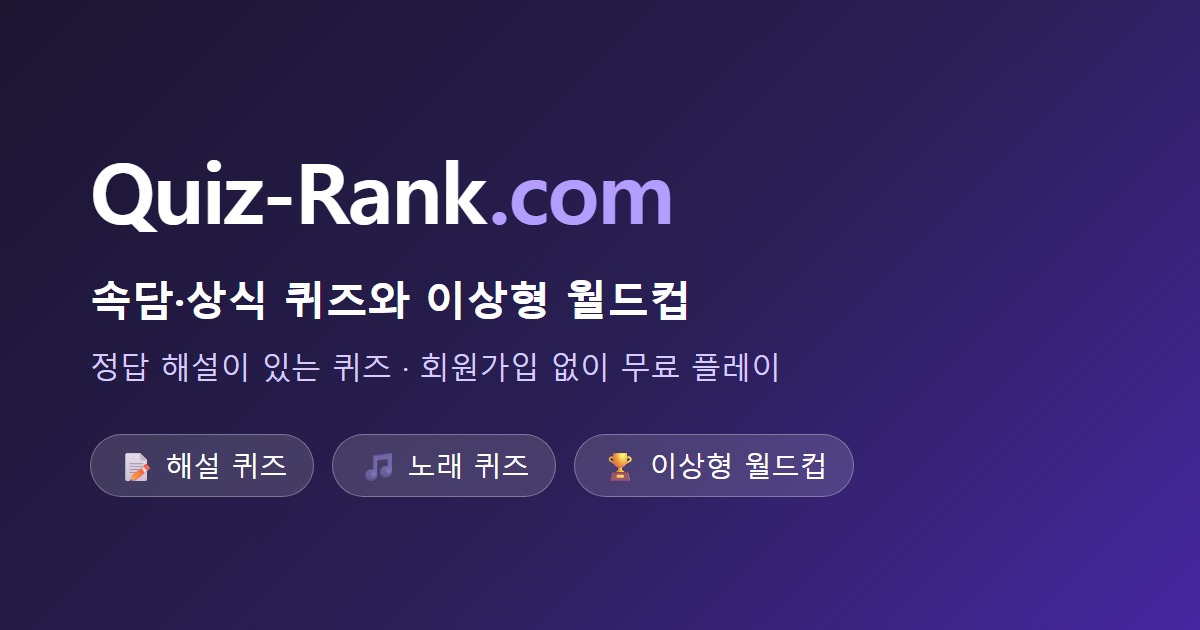
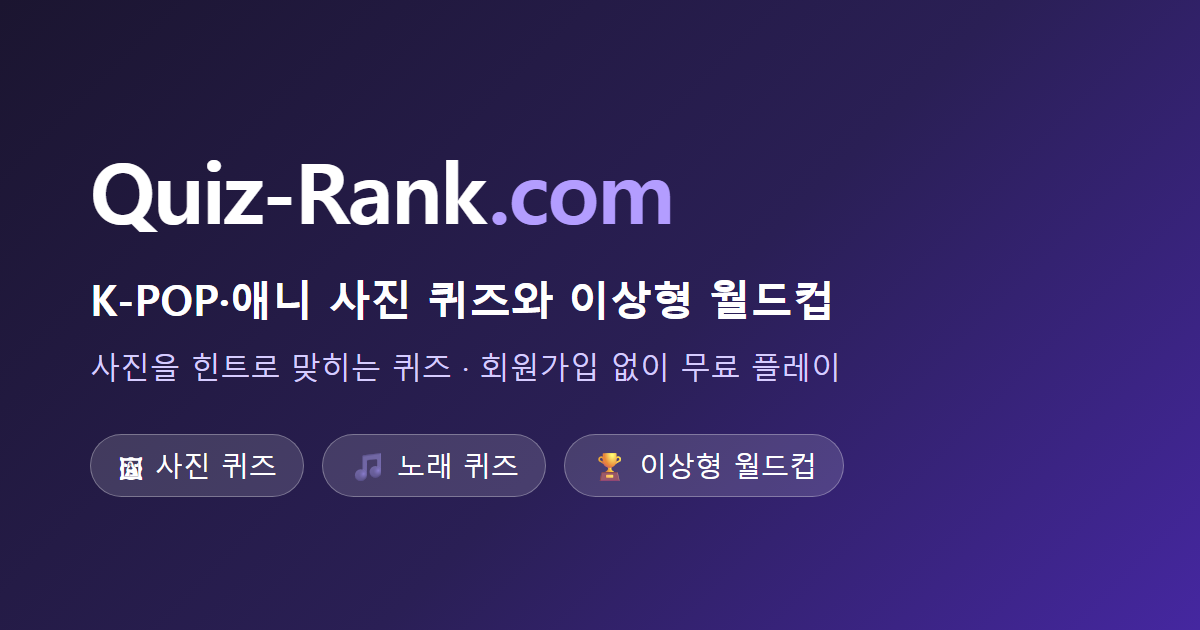
retitle home/about/OG image for current content (K-POP/anime photo quizzes), add image copyright notice and takedown contact

Changed region(s): [[0.0617, 0.4222, 0.7092, 0.5127], [0.0617, 0.5429, 0.7092, 0.6032], [0.0925, 0.6937, 0.7092, 0.7841]]

diff --git a/quiz-platform/index.html b/quiz-platform/index.html
@@ -8,18 +8,18 @@
     <meta property="og:type" content="website">
     <meta property="og:site_name" content="Quiz-Rank.com">
     <meta property="og:locale" content="ko_KR">
-    <meta property="og:title" content="Quiz-Rank.com — 속담·상식 퀴즈와 이상형 월드컵">
+    <meta property="og:title" content="Quiz-Rank.com — K-POP·애니 사진 퀴즈와 이상형 월드컵">
     <meta property="og:image" content="https://quiz-rank.com/og-image.png">
     <meta property="og:image:width" content="1200">
     <meta property="og:image:height" content="630">
     <meta name="twitter:image" content="https://quiz-rank.com/og-image.png">
-    <meta property="og:description" content="속담, 맞춤법, 사자성어, 초성 같은 교양 퀴즈와 이상형 월드컵을 무료로 즐겨 보세요. 문제마다 정답 해설이 있어 놀면서 배울 수 있고, 회원가입 없이 바로 플레이할 수 있습니다.">
+    <meta property="og:description" content="K-POP 아이돌과 애니 캐릭터, 세계 명소와 명화 사진을 힌트로 조금씩 드러내며 맞히는 퀴즈와 이상형 월드컵을 무료로 즐겨 보세요. 속담·맞춤법 같은 해설 퀴즈도 있고, 회원가입 없이 바로 플레이할 수 있습니다.">
     <meta property="og:url" content="https://quiz-rank.com/">
     <meta name="twitter:card" content="summary_large_image">
-    <meta name="twitter:title" content="Quiz-Rank.com — 속담·상식 퀴즈와 이상형 월드컵">
-    <meta name="twitter:description" content="속담, 맞춤법, 사자성어, 초성 같은 교양 퀴즈와 이상형 월드컵을 무료로 즐겨 보세요. 문제마다 정답 해설이 있어 놀면서 배울 수 있고, 회원가입 없이 바로 플레이할 수 있습니다.">
-    <title>Quiz-Rank.com — 속담·상식 퀴즈와 이상형 월드컵</title>
-    <meta name="description" content="속담, 맞춤법, 사자성어, 초성 같은 교양 퀴즈와 이상형 월드컵을 무료로 즐겨 보세요. 문제마다 정답 해설이 있어 놀면서 배울 수 있고, 회원가입 없이 바로 플레이할 수 있습니다.">
+    <meta name="twitter:title" content="Quiz-Rank.com — K-POP·애니 사진 퀴즈와 이상형 월드컵">
+    <meta name="twitter:description" content="K-POP 아이돌과 애니 캐릭터, 세계 명소와 명화 사진을 힌트로 조금씩 드러내며 맞히는 퀴즈와 이상형 월드컵을 무료로 즐겨 보세요. 속담·맞춤법 같은 해설 퀴즈도 있고, 회원가입 없이 바로 플레이할 수 있습니다.">
+    <title>Quiz-Rank.com — K-POP·애니 사진 퀴즈와 이상형 월드컵</title>
+    <meta name="description" content="K-POP 아이돌과 애니 캐릭터, 세계 명소와 명화 사진을 힌트로 조금씩 드러내며 맞히는 퀴즈와 이상형 월드컵을 무료로 즐겨 보세요. 속담·맞춤법 같은 해설 퀴즈도 있고, 회원가입 없이 바로 플레이할 수 있습니다.">
     <link rel="stylesheet" href="style.css?v=20260303_0025">
     <link href="https://fonts.googleapis.com/css2?family=Inter:wght@400;600;800&display=swap" rel="stylesheet">
     <meta name="google-adsense-account" content="ca-pub-7525260897274073">
@@ -34,7 +34,7 @@
     <script src="js/utils/theme.js"></script>
     <script src="js/utils/seo.js"></script>
     <script type="application/ld+json">
-    {"@context":"https://schema.org","@type":"WebSite","name":"Quiz-Rank.com","url":"https://quiz-rank.com/","inLanguage":"ko-KR","description":"속담·상식 퀴즈와 이상형 월드컵을 무료로 즐길 수 있는 서비스"}
+    {"@context":"https://schema.org","@type":"WebSite","name":"Quiz-Rank.com","url":"https://quiz-rank.com/","inLanguage":"ko-KR","description":"K-POP·애니 사진 퀴즈, 노래 퀴즈, 해설 퀴즈와 이상형 월드컵을 무료로 즐길 수 있는 서비스"}
     </script>
 </head>
 

diff --git a/quiz-platform/about.html b/quiz-platform/about.html
@@ -86,11 +86,12 @@
         <div class="page-container">
             <h1>Quiz-Rank.com 서비스 소개</h1>
 
-            <p>Quiz-Rank.com은 누구나 무료로 퀴즈를 풀고 이상형 월드컵을 즐길 수 있는 서비스입니다. 속담이나 맞춤법처럼 알아 두면 쓸모 있는 교양 퀴즈, 노래를 듣고 맞히는 퀴즈, 두 후보 중 하나씩 골라 최고를 가리는 이상형 월드컵을 제공합니다. 회원가입 없이 바로 플레이할 수 있습니다.</p>
+            <p>Quiz-Rank.com은 누구나 무료로 퀴즈를 풀고 이상형 월드컵을 즐길 수 있는 서비스입니다. 사진을 힌트로 조금씩 드러내며 맞히는 K-POP·애니·명소·명화 퀴즈, 노래를 듣고 맞히는 퀴즈, 속담이나 맞춤법처럼 해설이 붙는 교양 퀴즈, 두 후보 중 하나씩 골라 최고를 가리는 이상형 월드컵을 제공합니다. 회원가입 없이 바로 플레이할 수 있습니다.</p>
 
             <h2>어떤 콘텐츠가 있나요?</h2>
             <ul>
                 <li><strong>교양 퀴즈:</strong> 속담 빈칸 채우기, 헷갈리는 맞춤법, 사자성어 뜻 맞추기, 초성 퀴즈, 대한민국 상식 등 글로 읽고 푸는 퀴즈입니다. 문제를 풀 때마다 정답 해설을 함께 보여 드립니다.</li>
+                <li><strong>사진 퀴즈:</strong> 사진을 흐리게, 모자이크로, 일부만 확대해서, 또는 검은 상자로 가려서 보여 주고 무엇인지 맞히는 퀴즈입니다. 힌트를 볼 때마다 사진이 조금씩 드러나고, 힌트를 적게 쓸수록 점수가 높습니다. K-POP 그룹과 멤버, 애니메이션 캐릭터와 포스터, 세계 명소, 명화, 동물 등을 다룹니다.</li>
                 <li><strong>노래·영상 퀴즈:</strong> 짧은 구간을 듣고 곡을 맞히는 퀴즈입니다. 영상은 YouTube 플레이어로 재생되며 영상의 저작권은 원래 게시자에게 있습니다.</li>
                 <li><strong>이상형 월드컵:</strong> 음식, 카페 음료, 애니메이션 캐릭터, 아이돌 등 다양한 주제로 토너먼트를 진행합니다.</li>
             </ul>
@@ -100,6 +101,8 @@
                 <li>교양 퀴즈의 문제, 보기, 해설은 운영자가 직접 작성합니다. 다른 사이트의 문제를 그대로 가져오지 않습니다.</li>
                 <li>새 퀴즈는 공개하기 전에 운영자가 내용을 한 번 더 읽고 확인한 뒤에만 사이트에 올립니다. 정답이 모호하거나 사실과 다르다고 판단되면 공개하지 않습니다.</li>
                 <li>같은 문구가 반복되는 퀴즈, 정답이 하나로 정해지지 않는 퀴즈, 재생되지 않는 영상이나 열리지 않는 이미지가 많은 콘텐츠는 사이트에서 내립니다.</li>
+                <li>사진 퀴즈에 쓰인 이미지는 위키미디어 커먼즈 등에 자유 이용 허락(CC 라이선스)으로 공개된 자료이거나 웹에서 수집한 자료이며, 저작권은 각 원저작자에게 있습니다. 가능한 경우 정답 해설에 촬영한 사람과 라이선스를 적어 둡니다.</li>
+                <li>이미지나 콘텐츠에 대해 권리를 가진 분이 삭제를 요청하시면 확인 후 신속히 내립니다. 아래 이메일로 알려 주세요.</li>
                 <li>이용자가 직접 만든 콘텐츠는 <a href="terms.html">이용약관</a>에 따라 운영되며, 약관을 위반하거나 문제가 있는 콘텐츠는 삭제될 수 있습니다.</li>
             </ul>
 

diff --git a/quiz-platform/scripts/assets/og-card.html b/quiz-platform/scripts/assets/og-card.html
@@ -7,7 +7,7 @@ body{background:linear-gradient(135deg,#1b1530 0%,#2a1f55 55%,#4527a0 100%);font
 .chips{margin-top:48px;display:flex;gap:18px}.chips div{font-size:28px;padding:12px 26px;border-radius:40px;background:rgba(255,255,255,.14);border:1px solid rgba(255,255,255,.3)}
 </style></head><body>
 <div class="logo">Quiz-Rank<span>.com</span></div>
-<div class="tag">속담·상식 퀴즈와 이상형 월드컵</div>
-<div class="sub">정답 해설이 있는 퀴즈 · 회원가입 없이 무료 플레이</div>
-<div class="chips"><div>📝 해설 퀴즈</div><div>🎵 노래 퀴즈</div><div>🏆 이상형 월드컵</div></div>
+<div class="tag">K-POP·애니 사진 퀴즈와 이상형 월드컵</div>
+<div class="sub">사진을 힌트로 맞히는 퀴즈 · 회원가입 없이 무료 플레이</div>
+<div class="chips"><div>🖼 사진 퀴즈</div><div>🎵 노래 퀴즈</div><div>🏆 이상형 월드컵</div></div>
 </body></html>
